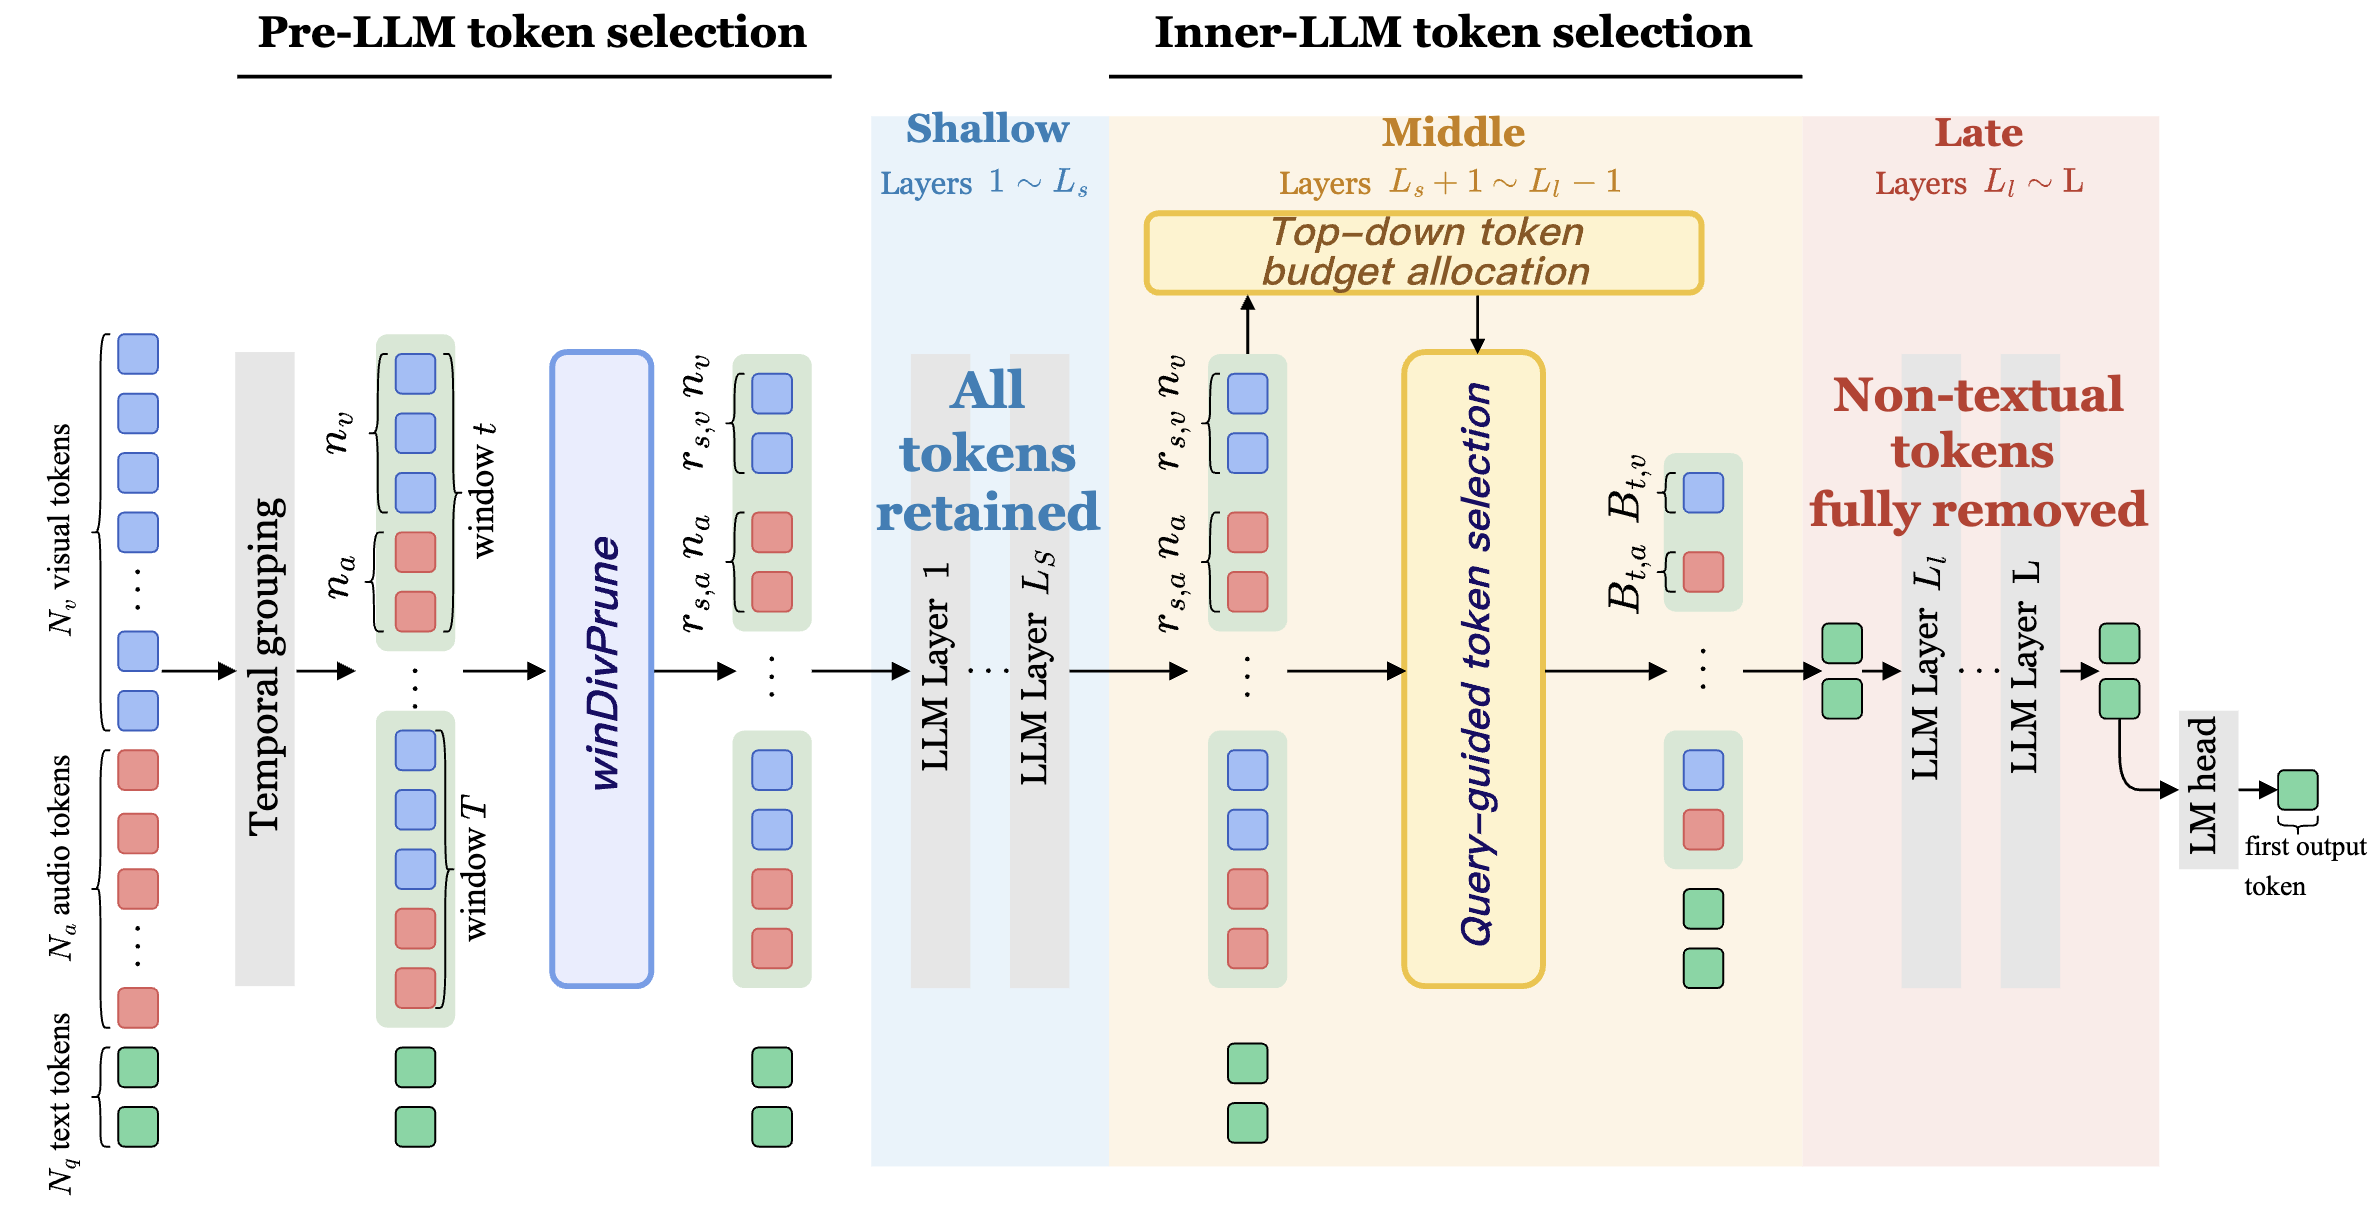
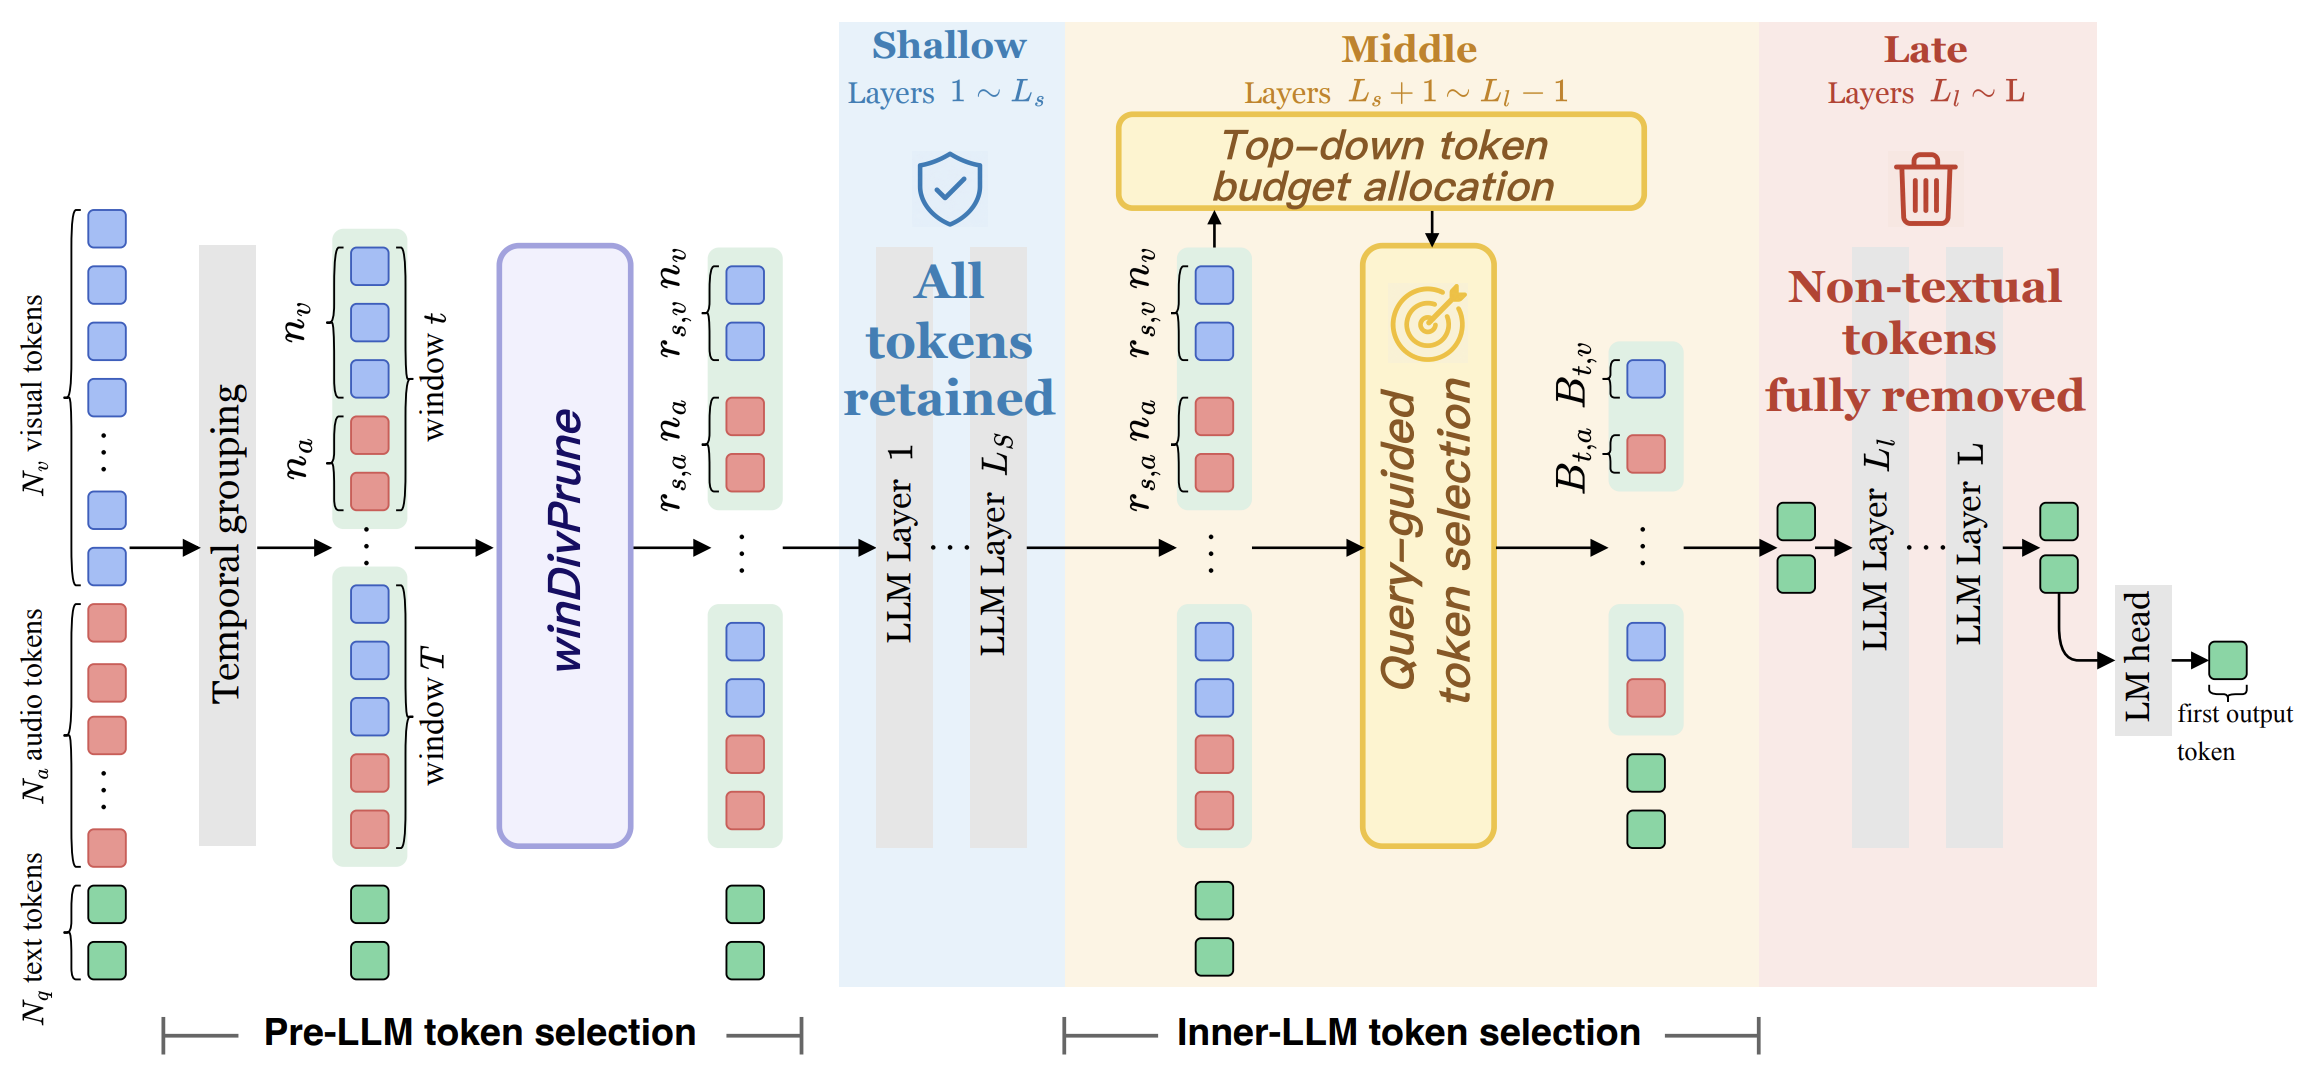
Deploying to gh-pages from @ xxayt/xxayt.github.io@45934425ef477d9564b1ba4b2fd97688e9f275b6 🚀

Changed region(s): [[0.0, 0.0, 0.9957, 0.9778], [0.0933, 0.0, 0.3423, 0.0917], [0.3734, 0.2444, 0.4356, 0.275]]

diff --git a/2021/07/04/diagrams.html b/2021/07/04/diagrams.html
@@ -6,5 +6,5 @@ sequenceDiagram
     Alice-&gt;&gt;John: Hello John, how are you?
     John--&gt;&gt;Alice: Great!
 {% endmermaid %}
-</code></pre></div></div> <div class="jekyll-diagrams diagrams mermaid"> <svg id="mermaid-1778740173791" width="100%" xmlns="http://www.w3.org/2000/svg" height="100%" style="max-width:450px;" viewbox="-50 -10 450 231"><style>#mermaid-1778740173791 .label{font-family:trebuchet ms,verdana,arial;color:#333}#mermaid-1778740173791 .node circle,#mermaid-1778740173791 .node ellipse,#mermaid-1778740173791 .node polygon,#mermaid-1778740173791 .node rect{fill:#ececff;stroke:#9370db;stroke-width:1px}#mermaid-1778740173791 .node.clickable{cursor:pointer}#mermaid-1778740173791 .arrowheadPath{fill:#333}#mermaid-1778740173791 .edgePath .path{stroke:#333;stroke-width:1.5px}#mermaid-1778740173791 .edgeLabel{background-color:#e8e8e8}#mermaid-1778740173791 .cluster rect{fill:#ffffde!important;stroke:#aa3!important;stroke-width:1px!important}#mermaid-1778740173791 .cluster text{fill:#333}#mermaid-1778740173791 div.mermaidTooltip{position:absolute;text-align:center;max-width:200px;padding:2px;font-family:trebuchet ms,verdana,arial;font-size:12px;background:#ffffde;border:1px solid #aa3;border-radius:2px;pointer-events:none;z-index:100}#mermaid-1778740173791 .actor{stroke:#ccf;fill:#ececff}#mermaid-1778740173791 text.actor{fill:#000;stroke:none}#mermaid-1778740173791 .actor-line{stroke:grey}#mermaid-1778740173791 .messageLine0{marker-end:"url(#arrowhead)"}#mermaid-1778740173791 .messageLine0,#mermaid-1778740173791 .messageLine1{stroke-width:1.5;stroke-dasharray:"2 2";stroke:#333}#mermaid-1778740173791 #arrowhead{fill:#333}#mermaid-1778740173791 #crosshead path{fill:#333!important;stroke:#333!important}#mermaid-1778740173791 .messageText{fill:#333;stroke:none}#mermaid-1778740173791 .labelBox{stroke:#ccf;fill:#ececff}#mermaid-1778740173791 .labelText,#mermaid-1778740173791 .loopText{fill:#000;stroke:none}#mermaid-1778740173791 .loopLine{stroke-width:2;stroke-dasharray:"2 2";marker-end:"url(#arrowhead)";stroke:#ccf}#mermaid-1778740173791 .note{stroke:#aa3;fill:#fff5ad}#mermaid-1778740173791 .noteText{fill:#000;stroke:none;font-family:trebuchet ms,verdana,arial;font-size:14px}#mermaid-1778740173791 .section{stroke:none;opacity:.2}#mermaid-1778740173791 .section0{fill:rgba(102,102,255,.49)}#mermaid-1778740173791 .section2{fill:#fff400}#mermaid-1778740173791 .section1,#mermaid-1778740173791 .section3{fill:#fff;opacity:.2}#mermaid-1778740173791 .sectionTitle0,#mermaid-1778740173791 .sectionTitle1,#mermaid-1778740173791 .sectionTitle2,#mermaid-1778740173791 .sectionTitle3{fill:#333}#mermaid-1778740173791 .sectionTitle{text-anchor:start;font-size:11px;text-height:14px}#mermaid-1778740173791 .grid .tick{stroke:#d3d3d3;opacity:.3;shape-rendering:crispEdges}#mermaid-1778740173791 .grid path{stroke-width:0}#mermaid-1778740173791 .today{fill:none;stroke:red;stroke-width:2px}#mermaid-1778740173791 .task{stroke-width:2}#mermaid-1778740173791 .taskText{text-anchor:middle;font-size:11px}#mermaid-1778740173791 .taskTextOutsideRight{fill:#000;text-anchor:start;font-size:11px}#mermaid-1778740173791 .taskTextOutsideLeft{fill:#000;text-anchor:end;font-size:11px}#mermaid-1778740173791 .taskText0,#mermaid-1778740173791 .taskText1,#mermaid-1778740173791 .taskText2,#mermaid-1778740173791 .taskText3{fill:#fff}#mermaid-1778740173791 .task0,#mermaid-1778740173791 .task1,#mermaid-1778740173791 .task2,#mermaid-1778740173791 .task3{fill:#8a90dd;stroke:#534fbc}#mermaid-1778740173791 .taskTextOutside0,#mermaid-1778740173791 .taskTextOutside1,#mermaid-1778740173791 .taskTextOutside2,#mermaid-1778740173791 .taskTextOutside3{fill:#000}#mermaid-1778740173791 .active0,#mermaid-1778740173791 .active1,#mermaid-1778740173791 .active2,#mermaid-1778740173791 .active3{fill:#bfc7ff;stroke:#534fbc}#mermaid-1778740173791 .activeText0,#mermaid-1778740173791 .activeText1,#mermaid-1778740173791 .activeText2,#mermaid-1778740173791 .activeText3{fill:#000!important}#mermaid-1778740173791 .done0,#mermaid-1778740173791 .done1,#mermaid-1778740173791 .done2,#mermaid-1778740173791 .done3{stroke:grey;fill:#d3d3d3;stroke-width:2}#mermaid-1778740173791 .doneText0,#mermaid-1778740173791 .doneText1,#mermaid-1778740173791 .doneText2,#mermaid-1778740173791 .doneText3{fill:#000!important}#mermaid-1778740173791 .crit0,#mermaid-1778740173791 .crit1,#mermaid-1778740173791 .crit2,#mermaid-1778740173791 .crit3{stroke:#f88;fill:red;stroke-width:2}#mermaid-1778740173791 .activeCrit0,#mermaid-1778740173791 .activeCrit1,#mermaid-1778740173791 .activeCrit2,#mermaid-1778740173791 .activeCrit3{stroke:#f88;fill:#bfc7ff;stroke-width:2}#mermaid-1778740173791 .doneCrit0,#mermaid-1778740173791 .doneCrit1,#mermaid-1778740173791 .doneCrit2,#mermaid-1778740173791 .doneCrit3{stroke:#f88;fill:#d3d3d3;stroke-width:2;cursor:pointer;shape-rendering:crispEdges}#mermaid-1778740173791 .activeCritText0,#mermaid-1778740173791 .activeCritText1,#mermaid-1778740173791 .activeCritText2,#mermaid-1778740173791 .activeCritText3,#mermaid-1778740173791 .doneCritText0,#mermaid-1778740173791 .doneCritText1,#mermaid-1778740173791 .doneCritText2,#mermaid-1778740173791 .doneCritText3{fill:#000!important}#mermaid-1778740173791 .titleText{text-anchor:middle;font-size:18px;fill:#000}
-#mermaid-1778740173791 g.classGroup text{fill:#9370db;stroke:none;font-family:trebuchet ms,verdana,arial;font-size:10px}#mermaid-1778740173791 g.classGroup rect{fill:#ececff;stroke:#9370db}#mermaid-1778740173791 g.classGroup line{stroke:#9370db;stroke-width:1}#mermaid-1778740173791 .classLabel .box{stroke:none;stroke-width:0;fill:#ececff;opacity:.5}#mermaid-1778740173791 .classLabel .label{fill:#9370db;font-size:10px}#mermaid-1778740173791 .relation{stroke:#9370db;stroke-width:1;fill:none}#mermaid-1778740173791 #compositionEnd,#mermaid-1778740173791 #compositionStart{fill:#9370db;stroke:#9370db;stroke-width:1}#mermaid-1778740173791 #aggregationEnd,#mermaid-1778740173791 #aggregationStart{fill:#ececff;stroke:#9370db;stroke-width:1}#mermaid-1778740173791 #dependencyEnd,#mermaid-1778740173791 #dependencyStart,#mermaid-1778740173791 #extensionEnd,#mermaid-1778740173791 #extensionStart{fill:#9370db;stroke:#9370db;stroke-width:1}#mermaid-1778740173791 .branch-label,#mermaid-1778740173791 .commit-id,#mermaid-1778740173791 .commit-msg{fill:#d3d3d3;color:#d3d3d3}</style> <style>#mermaid-1778740173791{color:#000;font:normal normal 400 normal 16px / normal "Times New Roman"}</style> <g></g><g><line id="actor0" x1="75" y1="5" x2="75" y2="220" class="actor-line" stroke-width="0.5px" stroke="#999"></line><rect x="0" y="0" fill="#eaeaea" stroke="#666" width="150" height="65" rx="3" ry="3" class="actor"></rect><text x="75" y="32.5" dominant-baseline="central" alignment-baseline="central" class="actor" style="text-anchor: middle;"><tspan x="75" dy="0">John</tspan></text></g><g><line id="actor1" x1="275" y1="5" x2="275" y2="220" class="actor-line" stroke-width="0.5px" stroke="#999"></line><rect x="200" y="0" fill="#eaeaea" stroke="#666" width="150" height="65" rx="3" ry="3" class="actor"></rect><text x="275" y="32.5" dominant-baseline="central" alignment-baseline="central" class="actor" style="text-anchor: middle;"><tspan x="275" dy="0">Alice</tspan></text></g><defs><marker id="arrowhead" refx="5" refy="2" markerwidth="6" markerheight="4" orient="auto"><path d="M 0,0 V 4 L6,2 Z"></path></marker></defs><defs><marker id="crosshead" markerwidth="15" markerheight="8" orient="auto" refx="16" refy="4"><path fill="black" stroke="#000000" stroke-width="1px" d="M 9,2 V 6 L16,4 Z" style="stroke-dasharray: 0, 0;"></path><path fill="none" stroke="#000000" stroke-width="1px" d="M 0,1 L 6,7 M 6,1 L 0,7" style="stroke-dasharray: 0, 0;"></path></marker></defs><g><text x="175" y="93" class="messageText" style="text-anchor: middle;">Hello John, how are you?</text><line x1="275" y1="100" x2="75" y2="100" class="messageLine0" stroke-width="2" stroke="black" marker-end="url(#arrowhead)" style="fill: none;"></line></g><g><text x="175" y="128" class="messageText" style="text-anchor: middle;">Great!</text><line x1="75" y1="135" x2="275" y2="135" class="messageLine1" stroke-width="2" stroke="black" marker-end="url(#arrowhead)" style="stroke-dasharray: 3, 3; fill: none;"></line></g><g><rect x="0" y="155" fill="#eaeaea" stroke="#666" width="150" height="65" rx="3" ry="3" class="actor"></rect><text x="75" y="187.5" dominant-baseline="central" alignment-baseline="central" class="actor" style="text-anchor: middle;"><tspan x="75" dy="0">John</tspan></text></g><g><rect x="200" y="155" fill="#eaeaea" stroke="#666" width="150" height="65" rx="3" ry="3" class="actor"></rect><text x="275" y="187.5" dominant-baseline="central" alignment-baseline="central" class="actor" style="text-anchor: middle;"><tspan x="275" dy="0">Alice</tspan></text></g></svg> </div> </div> </article> </div> </div> <footer class="fixed-bottom"> <div class="container mt-0"> © Copyright 2026 Zijie Xin 辛梓杰. </div> </footer> <script src="https://cdn.jsdelivr.net/npm/jquery@3.6.0/dist/jquery.min.js" integrity="sha256-/xUj+3OJU5yExlq6GSYGSHk7tPXikynS7ogEvDej/m4=" crossorigin="anonymous"></script> <script src="/assets/js/bootstrap.bundle.min.js"></script> <script src="https://cdn.jsdelivr.net/npm/mdbootstrap@4.20.0/js/mdb.min.js" integrity="sha256-NdbiivsvWt7VYCt6hYNT3h/th9vSTL4EDWeGs5SN3DA=" crossorigin="anonymous"></script> <script defer src="https://cdn.jsdelivr.net/npm/masonry-layout@4.2.2/dist/masonry.pkgd.min.js" integrity="sha256-Nn1q/fx0H7SNLZMQ5Hw5JLaTRZp0yILA/FRexe19VdI=" crossorigin="anonymous"></script> <script defer src="https://cdn.jsdelivr.net/npm/imagesloaded@4/imagesloaded.pkgd.min.js"></script> <script defer src="/assets/js/masonry.js" type="text/javascript"></script> <script defer src="https://cdn.jsdelivr.net/npm/medium-zoom@1.0.8/dist/medium-zoom.min.js" integrity="sha256-7PhEpEWEW0XXQ0k6kQrPKwuoIomz8R8IYyuU1Qew4P8=" crossorigin="anonymous"></script> <script defer src="/assets/js/zoom.js?7b30caa5023af4af8408a472dc4e1ebb"></script> <script defer src="https://unpkg.com/bootstrap-table@1.22.1/dist/bootstrap-table.min.js"></script> <script src="/assets/js/no_defer.js?d633890033921b33e0ceb13d22340a9c"></script> <script defer src="/assets/js/common.js?89716223bce329be9ce89b084e8bb479"></script> <script defer src="/assets/js/copy_code.js?c9d9dd48933de3831b3ee5ec9c209cac" type="text/javascript"></script> <script async src="https://d1bxh8uas1mnw7.cloudfront.net/assets/embed.js"></script> <script async src="https://badge.dimensions.ai/badge.js"></script> <script type="text/javascript">window.MathJax={tex:{tags:"ams"}};</script> <script defer type="text/javascript" id="MathJax-script" src="https://cdn.jsdelivr.net/npm/mathjax@3.2.0/es5/tex-mml-chtml.js"></script> <script defer src="https://polyfill.io/v3/polyfill.min.js?features=es6"></script> <script type="text/javascript">function progressBarSetup(){"max"in document.createElement("progress")?(initializeProgressElement(),$(document).on("scroll",function(){progressBar.attr({value:getCurrentScrollPosition()})}),$(window).on("resize",initializeProgressElement)):(resizeProgressBar(),$(document).on("scroll",resizeProgressBar),$(window).on("resize",resizeProgressBar))}function getCurrentScrollPosition(){return $(window).scrollTop()}function initializeProgressElement(){let e=$("#navbar").outerHeight(!0);$("body").css({"padding-top":e}),$("progress-container").css({"padding-top":e}),progressBar.css({top:e}),progressBar.attr({max:getDistanceToScroll(),value:getCurrentScrollPosition()})}function getDistanceToScroll(){return $(document).height()-$(window).height()}function resizeProgressBar(){progressBar.css({width:getWidthPercentage()+"%"})}function getWidthPercentage(){return getCurrentScrollPosition()/getDistanceToScroll()*100}const progressBar=$("#progress");window.onload=function(){setTimeout(progressBarSetup,50)};</script> <script>var wechatModal=document.getElementById("WeChatMod"),wechatBtn=document.getElementById("WeChatBtn");wechatBtn.onclick=function(){wechatModal.style.display="block"},window.onclick=function(t){t.target==wechatModal&&(wechatModal.style.display="none")};</script> </body> </html>
+</code></pre></div></div> <div class="jekyll-diagrams diagrams mermaid"> <svg id="mermaid-1779194231975" width="100%" xmlns="http://www.w3.org/2000/svg" height="100%" style="max-width:450px;" viewbox="-50 -10 450 231"><style>#mermaid-1779194231975 .label{font-family:trebuchet ms,verdana,arial;color:#333}#mermaid-1779194231975 .node circle,#mermaid-1779194231975 .node ellipse,#mermaid-1779194231975 .node polygon,#mermaid-1779194231975 .node rect{fill:#ececff;stroke:#9370db;stroke-width:1px}#mermaid-1779194231975 .node.clickable{cursor:pointer}#mermaid-1779194231975 .arrowheadPath{fill:#333}#mermaid-1779194231975 .edgePath .path{stroke:#333;stroke-width:1.5px}#mermaid-1779194231975 .edgeLabel{background-color:#e8e8e8}#mermaid-1779194231975 .cluster rect{fill:#ffffde!important;stroke:#aa3!important;stroke-width:1px!important}#mermaid-1779194231975 .cluster text{fill:#333}#mermaid-1779194231975 div.mermaidTooltip{position:absolute;text-align:center;max-width:200px;padding:2px;font-family:trebuchet ms,verdana,arial;font-size:12px;background:#ffffde;border:1px solid #aa3;border-radius:2px;pointer-events:none;z-index:100}#mermaid-1779194231975 .actor{stroke:#ccf;fill:#ececff}#mermaid-1779194231975 text.actor{fill:#000;stroke:none}#mermaid-1779194231975 .actor-line{stroke:grey}#mermaid-1779194231975 .messageLine0{marker-end:"url(#arrowhead)"}#mermaid-1779194231975 .messageLine0,#mermaid-1779194231975 .messageLine1{stroke-width:1.5;stroke-dasharray:"2 2";stroke:#333}#mermaid-1779194231975 #arrowhead{fill:#333}#mermaid-1779194231975 #crosshead path{fill:#333!important;stroke:#333!important}#mermaid-1779194231975 .messageText{fill:#333;stroke:none}#mermaid-1779194231975 .labelBox{stroke:#ccf;fill:#ececff}#mermaid-1779194231975 .labelText,#mermaid-1779194231975 .loopText{fill:#000;stroke:none}#mermaid-1779194231975 .loopLine{stroke-width:2;stroke-dasharray:"2 2";marker-end:"url(#arrowhead)";stroke:#ccf}#mermaid-1779194231975 .note{stroke:#aa3;fill:#fff5ad}#mermaid-1779194231975 .noteText{fill:#000;stroke:none;font-family:trebuchet ms,verdana,arial;font-size:14px}#mermaid-1779194231975 .section{stroke:none;opacity:.2}#mermaid-1779194231975 .section0{fill:rgba(102,102,255,.49)}#mermaid-1779194231975 .section2{fill:#fff400}#mermaid-1779194231975 .section1,#mermaid-1779194231975 .section3{fill:#fff;opacity:.2}#mermaid-1779194231975 .sectionTitle0,#mermaid-1779194231975 .sectionTitle1,#mermaid-1779194231975 .sectionTitle2,#mermaid-1779194231975 .sectionTitle3{fill:#333}#mermaid-1779194231975 .sectionTitle{text-anchor:start;font-size:11px;text-height:14px}#mermaid-1779194231975 .grid .tick{stroke:#d3d3d3;opacity:.3;shape-rendering:crispEdges}#mermaid-1779194231975 .grid path{stroke-width:0}#mermaid-1779194231975 .today{fill:none;stroke:red;stroke-width:2px}#mermaid-1779194231975 .task{stroke-width:2}#mermaid-1779194231975 .taskText{text-anchor:middle;font-size:11px}#mermaid-1779194231975 .taskTextOutsideRight{fill:#000;text-anchor:start;font-size:11px}#mermaid-1779194231975 .taskTextOutsideLeft{fill:#000;text-anchor:end;font-size:11px}#mermaid-1779194231975 .taskText0,#mermaid-1779194231975 .taskText1,#mermaid-1779194231975 .taskText2,#mermaid-1779194231975 .taskText3{fill:#fff}#mermaid-1779194231975 .task0,#mermaid-1779194231975 .task1,#mermaid-1779194231975 .task2,#mermaid-1779194231975 .task3{fill:#8a90dd;stroke:#534fbc}#mermaid-1779194231975 .taskTextOutside0,#mermaid-1779194231975 .taskTextOutside1,#mermaid-1779194231975 .taskTextOutside2,#mermaid-1779194231975 .taskTextOutside3{fill:#000}#mermaid-1779194231975 .active0,#mermaid-1779194231975 .active1,#mermaid-1779194231975 .active2,#mermaid-1779194231975 .active3{fill:#bfc7ff;stroke:#534fbc}#mermaid-1779194231975 .activeText0,#mermaid-1779194231975 .activeText1,#mermaid-1779194231975 .activeText2,#mermaid-1779194231975 .activeText3{fill:#000!important}#mermaid-1779194231975 .done0,#mermaid-1779194231975 .done1,#mermaid-1779194231975 .done2,#mermaid-1779194231975 .done3{stroke:grey;fill:#d3d3d3;stroke-width:2}#mermaid-1779194231975 .doneText0,#mermaid-1779194231975 .doneText1,#mermaid-1779194231975 .doneText2,#mermaid-1779194231975 .doneText3{fill:#000!important}#mermaid-1779194231975 .crit0,#mermaid-1779194231975 .crit1,#mermaid-1779194231975 .crit2,#mermaid-1779194231975 .crit3{stroke:#f88;fill:red;stroke-width:2}#mermaid-1779194231975 .activeCrit0,#mermaid-1779194231975 .activeCrit1,#mermaid-1779194231975 .activeCrit2,#mermaid-1779194231975 .activeCrit3{stroke:#f88;fill:#bfc7ff;stroke-width:2}#mermaid-1779194231975 .doneCrit0,#mermaid-1779194231975 .doneCrit1,#mermaid-1779194231975 .doneCrit2,#mermaid-1779194231975 .doneCrit3{stroke:#f88;fill:#d3d3d3;stroke-width:2;cursor:pointer;shape-rendering:crispEdges}#mermaid-1779194231975 .activeCritText0,#mermaid-1779194231975 .activeCritText1,#mermaid-1779194231975 .activeCritText2,#mermaid-1779194231975 .activeCritText3,#mermaid-1779194231975 .doneCritText0,#mermaid-1779194231975 .doneCritText1,#mermaid-1779194231975 .doneCritText2,#mermaid-1779194231975 .doneCritText3{fill:#000!important}#mermaid-1779194231975 .titleText{text-anchor:middle;font-size:18px;fill:#000}
+#mermaid-1779194231975 g.classGroup text{fill:#9370db;stroke:none;font-family:trebuchet ms,verdana,arial;font-size:10px}#mermaid-1779194231975 g.classGroup rect{fill:#ececff;stroke:#9370db}#mermaid-1779194231975 g.classGroup line{stroke:#9370db;stroke-width:1}#mermaid-1779194231975 .classLabel .box{stroke:none;stroke-width:0;fill:#ececff;opacity:.5}#mermaid-1779194231975 .classLabel .label{fill:#9370db;font-size:10px}#mermaid-1779194231975 .relation{stroke:#9370db;stroke-width:1;fill:none}#mermaid-1779194231975 #compositionEnd,#mermaid-1779194231975 #compositionStart{fill:#9370db;stroke:#9370db;stroke-width:1}#mermaid-1779194231975 #aggregationEnd,#mermaid-1779194231975 #aggregationStart{fill:#ececff;stroke:#9370db;stroke-width:1}#mermaid-1779194231975 #dependencyEnd,#mermaid-1779194231975 #dependencyStart,#mermaid-1779194231975 #extensionEnd,#mermaid-1779194231975 #extensionStart{fill:#9370db;stroke:#9370db;stroke-width:1}#mermaid-1779194231975 .branch-label,#mermaid-1779194231975 .commit-id,#mermaid-1779194231975 .commit-msg{fill:#d3d3d3;color:#d3d3d3}</style> <style>#mermaid-1779194231975{color:#000;font:normal normal 400 normal 16px / normal "Times New Roman"}</style> <g></g><g><line id="actor0" x1="75" y1="5" x2="75" y2="220" class="actor-line" stroke-width="0.5px" stroke="#999"></line><rect x="0" y="0" fill="#eaeaea" stroke="#666" width="150" height="65" rx="3" ry="3" class="actor"></rect><text x="75" y="32.5" dominant-baseline="central" alignment-baseline="central" class="actor" style="text-anchor: middle;"><tspan x="75" dy="0">John</tspan></text></g><g><line id="actor1" x1="275" y1="5" x2="275" y2="220" class="actor-line" stroke-width="0.5px" stroke="#999"></line><rect x="200" y="0" fill="#eaeaea" stroke="#666" width="150" height="65" rx="3" ry="3" class="actor"></rect><text x="275" y="32.5" dominant-baseline="central" alignment-baseline="central" class="actor" style="text-anchor: middle;"><tspan x="275" dy="0">Alice</tspan></text></g><defs><marker id="arrowhead" refx="5" refy="2" markerwidth="6" markerheight="4" orient="auto"><path d="M 0,0 V 4 L6,2 Z"></path></marker></defs><defs><marker id="crosshead" markerwidth="15" markerheight="8" orient="auto" refx="16" refy="4"><path fill="black" stroke="#000000" stroke-width="1px" d="M 9,2 V 6 L16,4 Z" style="stroke-dasharray: 0, 0;"></path><path fill="none" stroke="#000000" stroke-width="1px" d="M 0,1 L 6,7 M 6,1 L 0,7" style="stroke-dasharray: 0, 0;"></path></marker></defs><g><text x="175" y="93" class="messageText" style="text-anchor: middle;">Hello John, how are you?</text><line x1="275" y1="100" x2="75" y2="100" class="messageLine0" stroke-width="2" stroke="black" marker-end="url(#arrowhead)" style="fill: none;"></line></g><g><text x="175" y="128" class="messageText" style="text-anchor: middle;">Great!</text><line x1="75" y1="135" x2="275" y2="135" class="messageLine1" stroke-width="2" stroke="black" marker-end="url(#arrowhead)" style="stroke-dasharray: 3, 3; fill: none;"></line></g><g><rect x="0" y="155" fill="#eaeaea" stroke="#666" width="150" height="65" rx="3" ry="3" class="actor"></rect><text x="75" y="187.5" dominant-baseline="central" alignment-baseline="central" class="actor" style="text-anchor: middle;"><tspan x="75" dy="0">John</tspan></text></g><g><rect x="200" y="155" fill="#eaeaea" stroke="#666" width="150" height="65" rx="3" ry="3" class="actor"></rect><text x="275" y="187.5" dominant-baseline="central" alignment-baseline="central" class="actor" style="text-anchor: middle;"><tspan x="275" dy="0">Alice</tspan></text></g></svg> </div> </div> </article> </div> </div> <footer class="fixed-bottom"> <div class="container mt-0"> © Copyright 2026 Zijie Xin 辛梓杰. </div> </footer> <script src="https://cdn.jsdelivr.net/npm/jquery@3.6.0/dist/jquery.min.js" integrity="sha256-/xUj+3OJU5yExlq6GSYGSHk7tPXikynS7ogEvDej/m4=" crossorigin="anonymous"></script> <script src="/assets/js/bootstrap.bundle.min.js"></script> <script src="https://cdn.jsdelivr.net/npm/mdbootstrap@4.20.0/js/mdb.min.js" integrity="sha256-NdbiivsvWt7VYCt6hYNT3h/th9vSTL4EDWeGs5SN3DA=" crossorigin="anonymous"></script> <script defer src="https://cdn.jsdelivr.net/npm/masonry-layout@4.2.2/dist/masonry.pkgd.min.js" integrity="sha256-Nn1q/fx0H7SNLZMQ5Hw5JLaTRZp0yILA/FRexe19VdI=" crossorigin="anonymous"></script> <script defer src="https://cdn.jsdelivr.net/npm/imagesloaded@4/imagesloaded.pkgd.min.js"></script> <script defer src="/assets/js/masonry.js" type="text/javascript"></script> <script defer src="https://cdn.jsdelivr.net/npm/medium-zoom@1.0.8/dist/medium-zoom.min.js" integrity="sha256-7PhEpEWEW0XXQ0k6kQrPKwuoIomz8R8IYyuU1Qew4P8=" crossorigin="anonymous"></script> <script defer src="/assets/js/zoom.js?7b30caa5023af4af8408a472dc4e1ebb"></script> <script defer src="https://unpkg.com/bootstrap-table@1.22.1/dist/bootstrap-table.min.js"></script> <script src="/assets/js/no_defer.js?d633890033921b33e0ceb13d22340a9c"></script> <script defer src="/assets/js/common.js?89716223bce329be9ce89b084e8bb479"></script> <script defer src="/assets/js/copy_code.js?c9d9dd48933de3831b3ee5ec9c209cac" type="text/javascript"></script> <script async src="https://d1bxh8uas1mnw7.cloudfront.net/assets/embed.js"></script> <script async src="https://badge.dimensions.ai/badge.js"></script> <script type="text/javascript">window.MathJax={tex:{tags:"ams"}};</script> <script defer type="text/javascript" id="MathJax-script" src="https://cdn.jsdelivr.net/npm/mathjax@3.2.0/es5/tex-mml-chtml.js"></script> <script defer src="https://polyfill.io/v3/polyfill.min.js?features=es6"></script> <script type="text/javascript">function progressBarSetup(){"max"in document.createElement("progress")?(initializeProgressElement(),$(document).on("scroll",function(){progressBar.attr({value:getCurrentScrollPosition()})}),$(window).on("resize",initializeProgressElement)):(resizeProgressBar(),$(document).on("scroll",resizeProgressBar),$(window).on("resize",resizeProgressBar))}function getCurrentScrollPosition(){return $(window).scrollTop()}function initializeProgressElement(){let e=$("#navbar").outerHeight(!0);$("body").css({"padding-top":e}),$("progress-container").css({"padding-top":e}),progressBar.css({top:e}),progressBar.attr({max:getDistanceToScroll(),value:getCurrentScrollPosition()})}function getDistanceToScroll(){return $(document).height()-$(window).height()}function resizeProgressBar(){progressBar.css({width:getWidthPercentage()+"%"})}function getWidthPercentage(){return getCurrentScrollPosition()/getDistanceToScroll()*100}const progressBar=$("#progress");window.onload=function(){setTimeout(progressBarSetup,50)};</script> <script>var wechatModal=document.getElementById("WeChatMod"),wechatBtn=document.getElementById("WeChatBtn");wechatBtn.onclick=function(){wechatModal.style.display="block"},window.onclick=function(t){t.target==wechatModal&&(wechatModal.style.display="none")};</script> </body> </html>